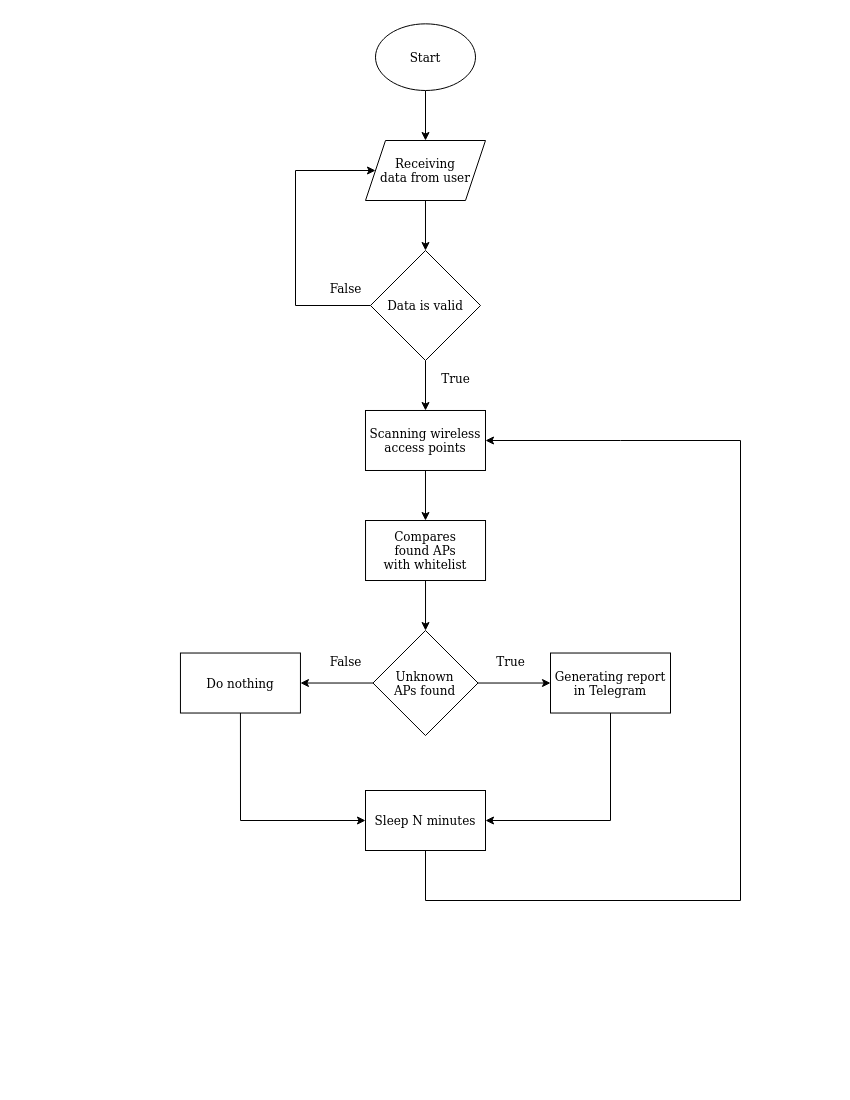
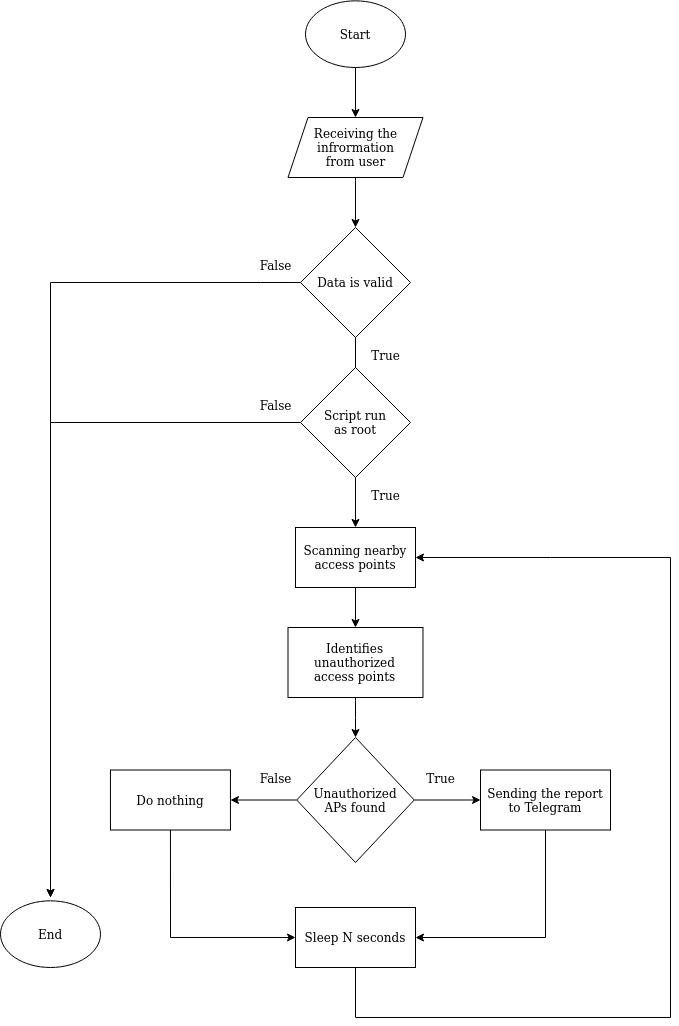
Couple of fixes and finished ReadMe

diff --git a/waps.py b/waps.py
@@ -6,27 +6,30 @@ import re
 
 def information_parser():
     global interface
-    parser = argparse.ArgumentParser(description='Gathers necessary information')
+    parser = argparse.ArgumentParser(
+            description='Keep an eye out for unauthorized access points',
+            usage='waps.py -n NAME -i INTERFACE -s SECONDS -t API -u ID')
+    parser._optionals.title = 'Required arguments (except "help")'
     parser.add_argument('-n', '--name',
                         metavar='NAME', required=True,
-                        help='enter a name for the device')
-    parser.add_argument('-i', '--interface',
+                        help='Name for the device')
+    parser.add_argument('-i', '--int',
                         metavar='INT', type=str, required=True,
-                        help='enter network interface for scan')
-    parser.add_argument('-s', '--seconds',
+                        help='Network interface for scan')
+    parser.add_argument('-s', '--sec',
                         metavar='SEC', type=int, required=True,
-                        help='enter user ID')
+                        help='Time period between report creation')
     parser.add_argument('-t', '--token',
                         metavar='API', type=str, required=True,
-                        help='enter api token (bot)')
+                        help='Telegram Bot API token')
     parser.add_argument('-u', '--user',
                         metavar='ID', type=int, required=True,
-                        help='enter user ID')
+                        help='User/Chat ID')
     args = parser.parse_args()
 
     name = args.name
-    seconds = args.seconds
-    interface = args.interface
+    seconds = args.sec
+    interface = args.int
     interface_state = os.popen(
         f'ifconfig').read()
     token = args.token
@@ -56,6 +59,11 @@ def information_parser():
 
     return name, seconds, token, user
 
+def root_check():
+    if not os.geteuid() == 0:
+        print('\nThis script must be run as root!')
+        exit()
+
 
 def get_access_points():
     '''Detecting and storing access points'''
@@ -78,6 +86,7 @@ def get_access_points():
                 count += 1
         except:
             print("Something went wrong, trying again")
+            raw_scan = os.popen(f"iw dev {interface} scan").read()
             continue
         else:
             print('\nMultiple access points detected')
@@ -88,8 +97,12 @@ def get_access_points():
 
 def get_allowed_mac():
     '''Pulls MACs from the whitelist.txt'''
-    with open('./whitelist.txt') as file:
-        whitelist = file.read().lower().splitlines()
+    try:
+        with open('./whitelist.txt') as file:
+            whitelist = file.read().lower().splitlines()
+    except:
+        print("\nEven if you don't have an authorized access points - create the 'whitelist.txt' and leave it empty")
+        exit()
 
     return whitelist
 
@@ -110,6 +123,7 @@ def delete_allowed():
 def create_report():
     '''Creating a report and sending it to Telegram'''
     name, seconds, token, user = information_parser()
+    root_check()
 
     while True:
         access_points = delete_allowed()

diff --git a/README.md b/README.md
@@ -1,3 +1,48 @@
-[![shields](https://img.shields.io/badge/works%20on-openwrt%20%7C%20linux-blue)](https://shields.io)
+[![banner_waps](images/banner_waps.png)]
 
-`waps` is the sonar for unknown access points in your organization
+[![badge_python](https://forthebadge.com/images/badges/made-with-python.svg)](https://forthebadge.com)
+[![badge_works](images/badge_works.svg)](https://forthebadge.com)
+[![badge_no](images/badge_no.svg)](https://forthebadge.com)
+
+## :telescope: About
+`waps` scans and identifies unknown/unauthorized access points using a whitelist of authorized access points, then sends a report to Telegram (MAC, SIGNAL, SSID)
+
+![gif_waps](images/just_waps.gif)
+
+Using a whitelist
+![gif_waps_whitelist](images/waps_whitelist.gif)
+
+The main limitation for the project is that the script must work on routers with OpenWRT without using external libraries. 
+
+### Flowchart of the script
+![flowchart](images/flowchart.png)
+
+## :gear: Installation
+1. Install the tools
+    + Debian: `apt-get install iw curl`
+2. Clone the repository
+    + `git clone https://github.com/curvtd/waps.git`
+
+## :book: Usage
+```
+usage: waps.py -n NAME -i -INT -s SEC -a API -u ID
+
+Keep an eye out for unauthorized access points
+
+Required arguments (except "help"):
+  -h, --help            show this help message and exit
+  -n NAME, --name NAME  Name for the device
+  -i INT, --int INT     Network interface for scan
+  -s SEC, --sec SEC     Time period between reports
+  -a API, --api API     Telegram Bot API token
+  -u ID, --user ID      User/Chat ID
+```
+
+Don't forget to write MAC addresses of allowed access points in the whitelist.txt (one address per line). 
+Example of whitelist.txt:
+```
+AA:AA:AA:AA:AA:AA
+BB:BB:BB:BB:BB:BB
+```
+
+
